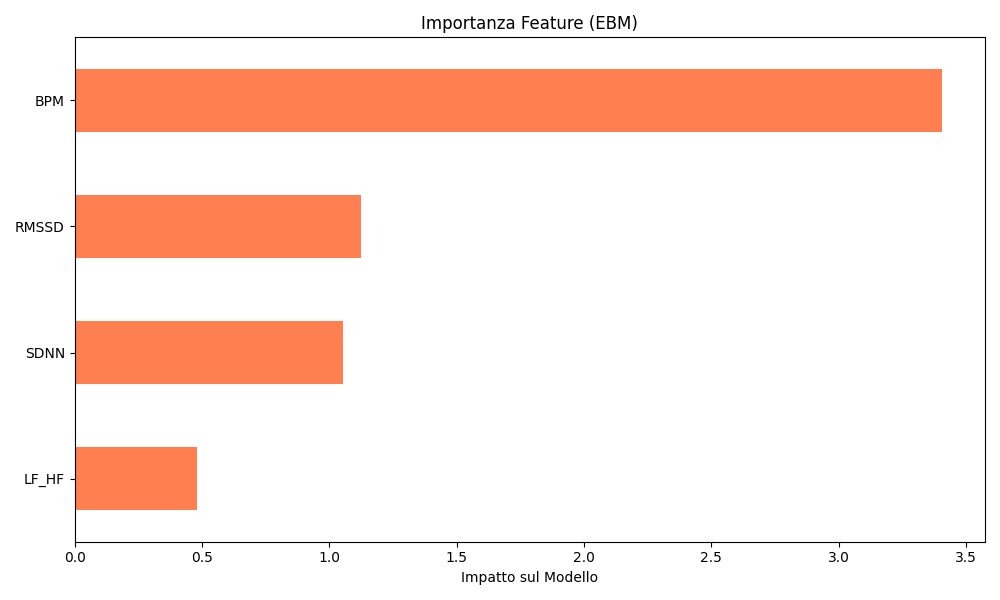
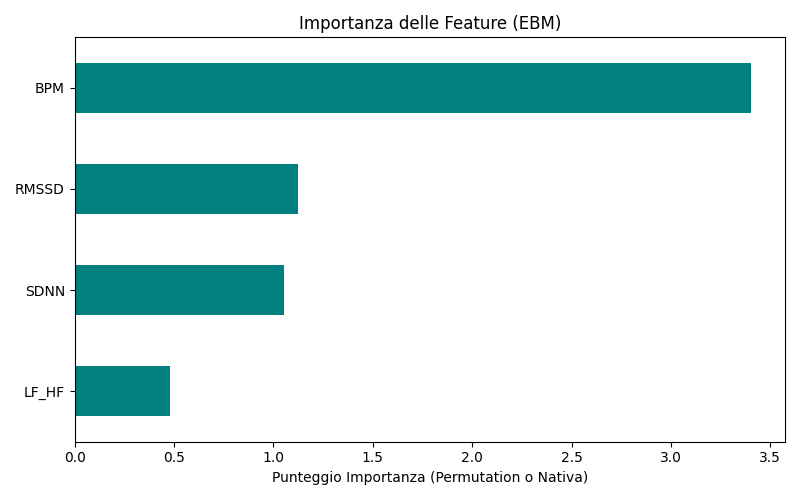
Modifiche

Changed region(s): [[0.0312, 0.03, 1.0, 0.99], [0.0, 0.3, 0.375, 0.45], [0.0312, 0.51, 0.375, 0.66]]

diff --git a/models/dataset_machine_learning.py b/models/dataset_machine_learning.py
@@ -8,15 +8,15 @@ from sklearn.model_selection import train_test_split, cross_val_score, Stratifie
 from sklearn.metrics import classification_report, confusion_matrix, accuracy_score
 from sklearn.preprocessing import LabelEncoder, StandardScaler
 from sklearn.pipeline import Pipeline
+from sklearn.inspection import permutation_importance # <-- NUOVA IMPORTAZIONE
 from imblearn.over_sampling import SMOTE 
 
 # Modelli
 from sklearn.ensemble import RandomForestClassifier
 from xgboost import XGBClassifier
 from lightgbm import LGBMClassifier
-from interpret.glassbox import ExplainableBoostingClassifier # EBM
+from interpret.glassbox import ExplainableBoostingClassifier 
 from sklearn.svm import SVC
-from sklearn.linear_model import LogisticRegression
 
 # Ottimizzazione
 import optuna
@@ -53,17 +53,22 @@ def load_and_prepare_data(file_path):
 def evaluate_model(clf, X_test, y_test, model_name="Modello", label_encoder=None):
     y_pred = clf.predict(X_test)
     
+    # Gestione nomi classi
     if label_encoder is not None:
-        y_pred = label_encoder.inverse_transform(y_pred)
+        y_pred_labels = label_encoder.inverse_transform(y_pred)
+        # Se y_test è già testo, lo usiamo così com'è
+        y_test_labels = y_test if isinstance(y_test.iloc[0], str) else label_encoder.inverse_transform(y_test)
         classes = label_encoder.classes_
     else:
+        y_pred_labels = y_pred
+        y_test_labels = y_test
         if isinstance(clf, Pipeline):
             classes = clf.classes_
         else:
             classes = clf.classes_ if hasattr(clf, 'classes_') else np.unique(y_test)
     
-    acc = accuracy_score(y_test, y_pred)
-    report = classification_report(y_test, y_pred)
+    acc = accuracy_score(y_test_labels, y_pred_labels)
+    report = classification_report(y_test_labels, y_pred_labels)
     
     print(f"\n{'='*40}")
     print(f"--- PERFORMANCE DEL MODELLO: {model_name} ---")
@@ -71,9 +76,9 @@ def evaluate_model(clf, X_test, y_test, model_name="Modello", label_encoder=None
     print("\nReport di Classificazione:")
     print(report)
 
-    # Matrice di Confusione
+    # 1. Matrice di Confusione
     plt.figure(figsize=(8, 6))
-    cm = confusion_matrix(y_test, y_pred, labels=classes)
+    cm = confusion_matrix(y_test_labels, y_pred_labels, labels=classes)
     sns.heatmap(cm, annot=True, fmt='d', cmap='Blues', xticklabels=classes, yticklabels=classes)
     plt.title(f'Matrice di Confusione: {model_name}', fontsize=14)
     plt.ylabel('Verità (Actual)')
@@ -82,28 +87,39 @@ def evaluate_model(clf, X_test, y_test, model_name="Modello", label_encoder=None
     plt.savefig(f'matrice_confusione_{model_name.replace(" ", "_")}.png')
     plt.close()
     
-    # Importanza delle Feature (Standard)
+    # 2. Logica Avanzata per l'Importanza delle Feature
+    importances = None
+    
+    # Caso A: Modelli con importanza nativa (RF, XGB, LGBM)
     if hasattr(clf, 'feature_importances_'):
-        plt.figure(figsize=(8, 5))
-        feat_importances = pd.Series(clf.feature_importances_, index=FEATURES)
-        feat_importances.sort_values(ascending=True).plot(kind='barh', color='teal')
-        plt.title(f'Importanza delle Feature ({model_name})')
-        plt.xlabel('Importanza Relativa')
-        plt.tight_layout()
-        plt.savefig(f'importanza_feature_{model_name.replace(" ", "_")}.png')
-        plt.close()
-        
-    # Importanza delle Feature SPECIALE per EBM
+        importances = clf.feature_importances_
+    
+    # Caso B: Modello EBM
     elif isinstance(clf, ExplainableBoostingClassifier):
         ebm_global = clf.explain_global()
-        data = ebm_global.data()
-        plt.figure(figsize=(10, 6))
-        pd.Series(data['scores'], index=data['names']).sort_values(ascending=True).plot(kind='barh', color='coral')
-        plt.title(f'Importanza Feature ({model_name})')
-        plt.xlabel('Impatto sul Modello')
-        plt.tight_layout()
-        plt.savefig(f'importanza_feature_{model_name.replace(" ", "_")}.png')
-        plt.close()
+        ebm_data = ebm_global.data()
+        importances = ebm_data['scores']
+
+    # Caso C (IL RISOLUTORE): Se il modello non ha importanza nativa (come SVM RBF)
+    # Calcoliamo la Permutation Importance
+    if importances is None:
+        print(f"Calcolo Permutation Importance per {model_name} (richiede tempo)...")
+        # Usiamo y_test originale se il modello si aspetta etichette numeriche (XGB/LGBM)
+        # o y_test_labels se il modello accetta testo (SVM/RF)
+        target_eval = y_test if label_encoder is not None and not isinstance(y_test.iloc[0], str) else y_test_labels
+        
+        r = permutation_importance(clf, X_test, target_eval, n_repeats=10, random_state=SEED, n_jobs=-1)
+        importances = r.importances_mean
+
+    # 3. Generazione Grafico
+    plt.figure(figsize=(8, 5))
+    feat_importances = pd.Series(importances, index=FEATURES)
+    feat_importances.sort_values(ascending=True).plot(kind='barh', color='teal')
+    plt.title(f'Importanza delle Feature ({model_name})')
+    plt.xlabel('Punteggio Importanza (Permutation o Nativa)')
+    plt.tight_layout()
+    plt.savefig(f'importanza_feature_{model_name.replace(" ", "_")}.png')
+    plt.close()
 
 # ==========================================
 # PARTE 2: TRAINING SPECIFICO DEI MODELLI
@@ -115,7 +131,6 @@ def train_random_forest(X_train, y_train):
     return clf
 
 def train_xgboost(X_train, y_train):
-    print("\nAvvio ottimizzazione Optuna per XGBoost...")
     le = LabelEncoder()
     y_train_encoded = le.fit_transform(y_train)
     
@@ -132,8 +147,7 @@ def train_xgboost(X_train, y_train):
         }
         clf = XGBClassifier(**param)
         cv = StratifiedKFold(n_splits=5, shuffle=True, random_state=SEED)
-        score = cross_val_score(clf, X_train, y_train_encoded, cv=cv, scoring='f1_macro').mean()
-        return score
+        return cross_val_score(clf, X_train, y_train_encoded, cv=cv, scoring='f1_macro').mean()
 
     optuna.logging.set_verbosity(optuna.logging.WARNING)
     study = optuna.create_study(direction='maximize')
@@ -144,7 +158,6 @@ def train_xgboost(X_train, y_train):
     return best_clf, le
 
 def train_lightgbm(X_train, y_train):
-    print("\nAvvio ottimizzazione Optuna per LightGBM...")
     le = LabelEncoder()
     y_train_encoded = le.fit_transform(y_train)
     
@@ -161,8 +174,7 @@ def train_lightgbm(X_train, y_train):
         }
         clf = LGBMClassifier(**param)
         cv = StratifiedKFold(n_splits=5, shuffle=True, random_state=SEED)
-        score = cross_val_score(clf, X_train, y_train_encoded, cv=cv, scoring='f1_macro').mean()
-        return score
+        return cross_val_score(clf, X_train, y_train_encoded, cv=cv, scoring='f1_macro').mean()
 
     optuna.logging.set_verbosity(optuna.logging.WARNING)
     study = optuna.create_study(direction='maximize')
@@ -173,7 +185,6 @@ def train_lightgbm(X_train, y_train):
     return best_clf, le
 
 def train_svm(X_train, y_train):
-    print("\nAvvio ottimizzazione Optuna per SVM (Support Vector Machine)...")
     def objective(trial):
         svm_c = trial.suggest_float('C', 0.1, 10.0, log=True)
         svm_kernel = trial.suggest_categorical('kernel', ['linear', 'rbf'])
@@ -183,8 +194,7 @@ def train_svm(X_train, y_train):
             ('svc', SVC(C=svm_c, kernel=svm_kernel, class_weight='balanced', random_state=SEED))
         ])
         cv = StratifiedKFold(n_splits=5, shuffle=True, random_state=SEED)
-        score = cross_val_score(clf, X_train, y_train, cv=cv, scoring='f1_macro', n_jobs=-1).mean()
-        return score
+        return cross_val_score(clf, X_train, y_train, cv=cv, scoring='f1_macro', n_jobs=-1).mean()
 
     optuna.logging.set_verbosity(optuna.logging.WARNING)
     study = optuna.create_study(direction='maximize')
@@ -198,8 +208,6 @@ def train_svm(X_train, y_train):
     return best_clf
 
 def train_ebm(X_train, y_train):
-    print("\nAvvio training per Explainable Boosting Machine (EBM)...")
-    # MODIFICA FATTA QUI: interactions=0 per evitare il blocco sul dataset Multiclass
     clf = ExplainableBoostingClassifier(interactions=0, random_state=SEED, n_jobs=-1)
     clf.fit(X_train, y_train)
     return clf
@@ -208,38 +216,24 @@ def train_ebm(X_train, y_train):
 # PARTE 3: MOTORE DI ESECUZIONE
 # ==========================================
 if __name__ == "__main__":
-    print("Inizio fase di preparazione dati...")
     X_train, X_test, y_train, y_test = load_and_prepare_data(FILE_PATH)
     
-    print("\n" + "="*50)
-    print("INIZIO TRAINING DEI MODELLI (Questa è la volta buona!)")
-    print("="*50)
-    
     # 1. RANDOM FOREST
-    print("\n>>> 1/5: Allenamento RANDOM FOREST in corso...")
     modello_rf = train_random_forest(X_train, y_train)
     evaluate_model(modello_rf, X_test, y_test, model_name="Random Forest")
     
     # 2. XGBOOST
-    print("\n>>> 2/5: Allenamento XGBOOST in corso...")
     modello_xgb, le_xgb = train_xgboost(X_train, y_train)
     evaluate_model(modello_xgb, X_test, y_test, model_name="XGBoost", label_encoder=le_xgb)
     
     # 3. LIGHTGBM
-    print("\n>>> 3/5: Allenamento LIGHTGBM in corso...")
     modello_lgb, le_lgb = train_lightgbm(X_train, y_train)
     evaluate_model(modello_lgb, X_test, y_test, model_name="LightGBM", label_encoder=le_lgb)
 
-    # 4. SVM
-    print("\n>>> 4/5: Allenamento SVM in corso...")
+    # 4. SVM (Ora genererà il grafico!)
     modello_svm = train_svm(X_train, y_train)
     evaluate_model(modello_svm, X_test, y_test, model_name="SVM")
 
-    # 5. EBM (CORRETTO!)
-    print("\n>>> 5/5: Allenamento EBM (Explainable Boosting) in corso...")
+    # 5. EBM 
     modello_ebm = train_ebm(X_train, y_train)
     evaluate_model(modello_ebm, X_test, y_test, model_name="EBM")
-    
-    print("\n" + "="*50)
-    print("TUTTI I 5 MODELLI COMPLETATI CON SUCCESSO! GRAFICI SALVATI!")
-    print("="*50)
